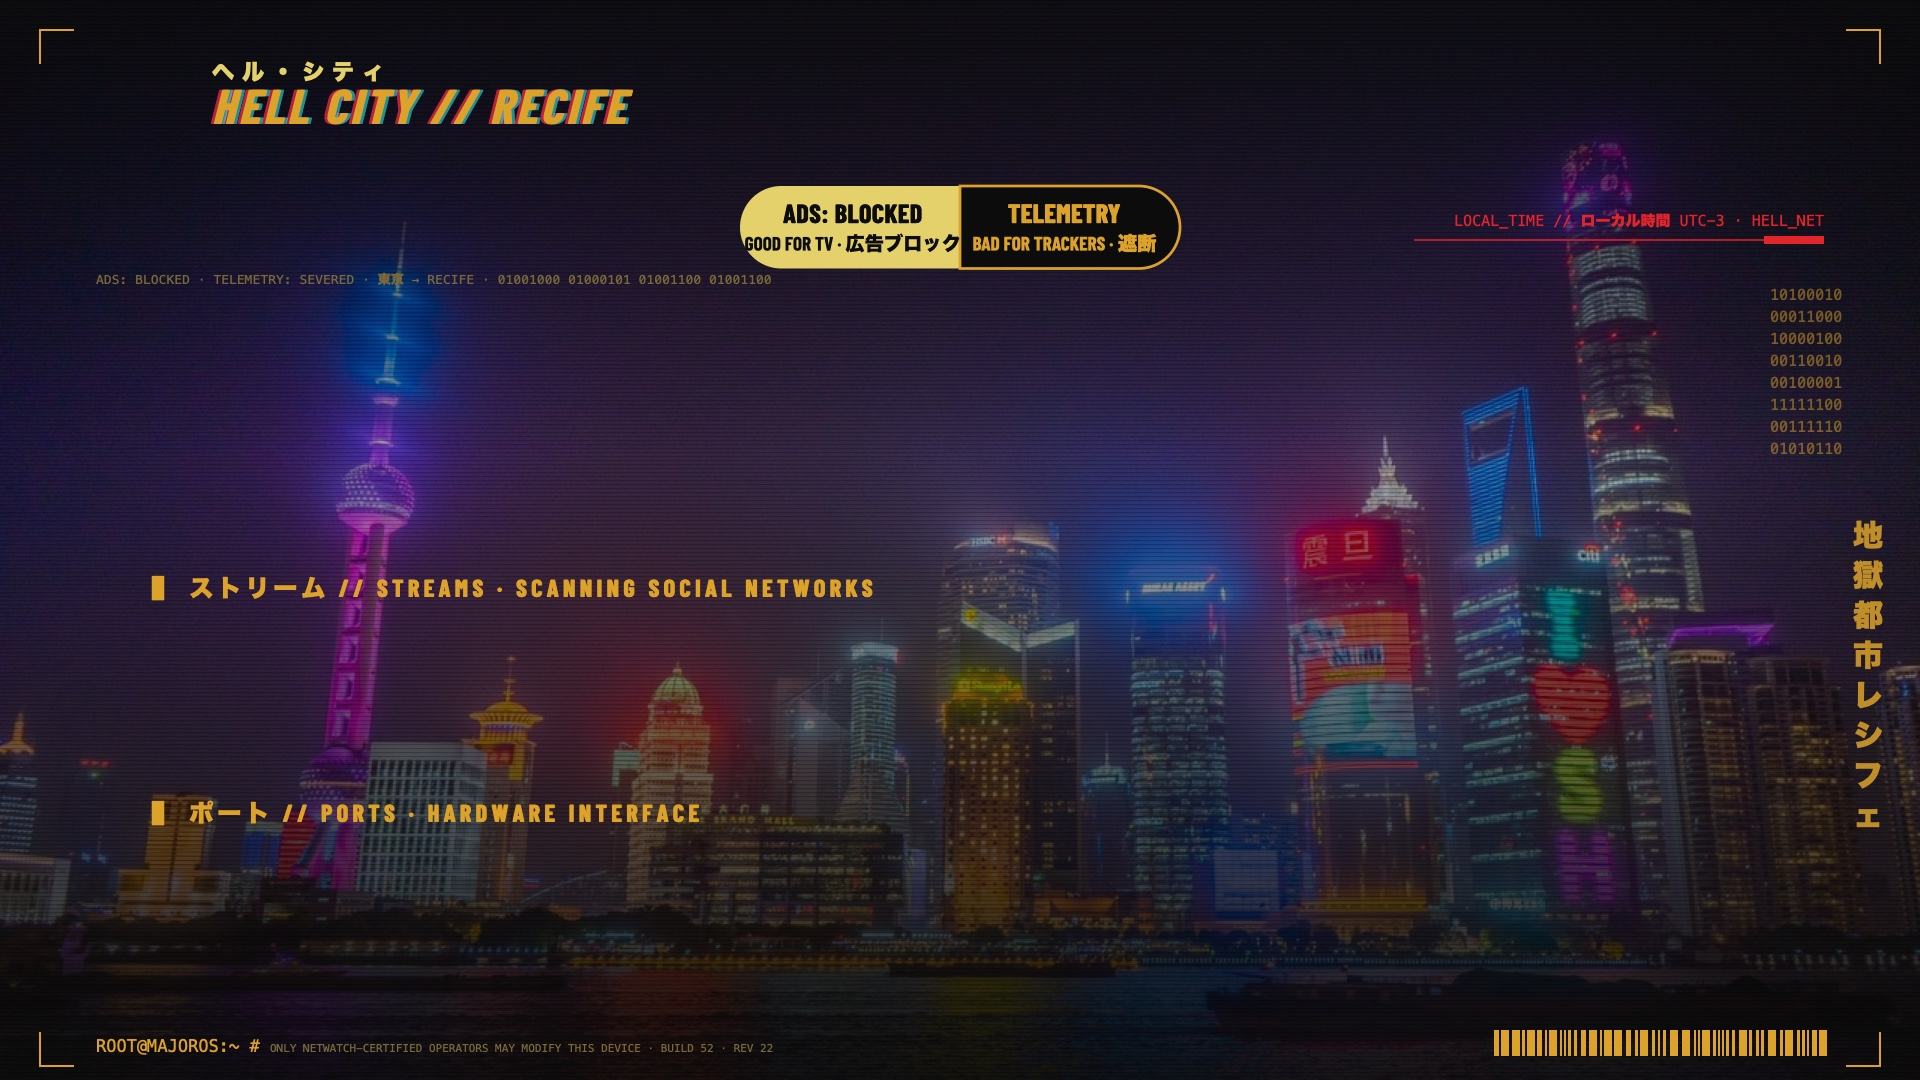
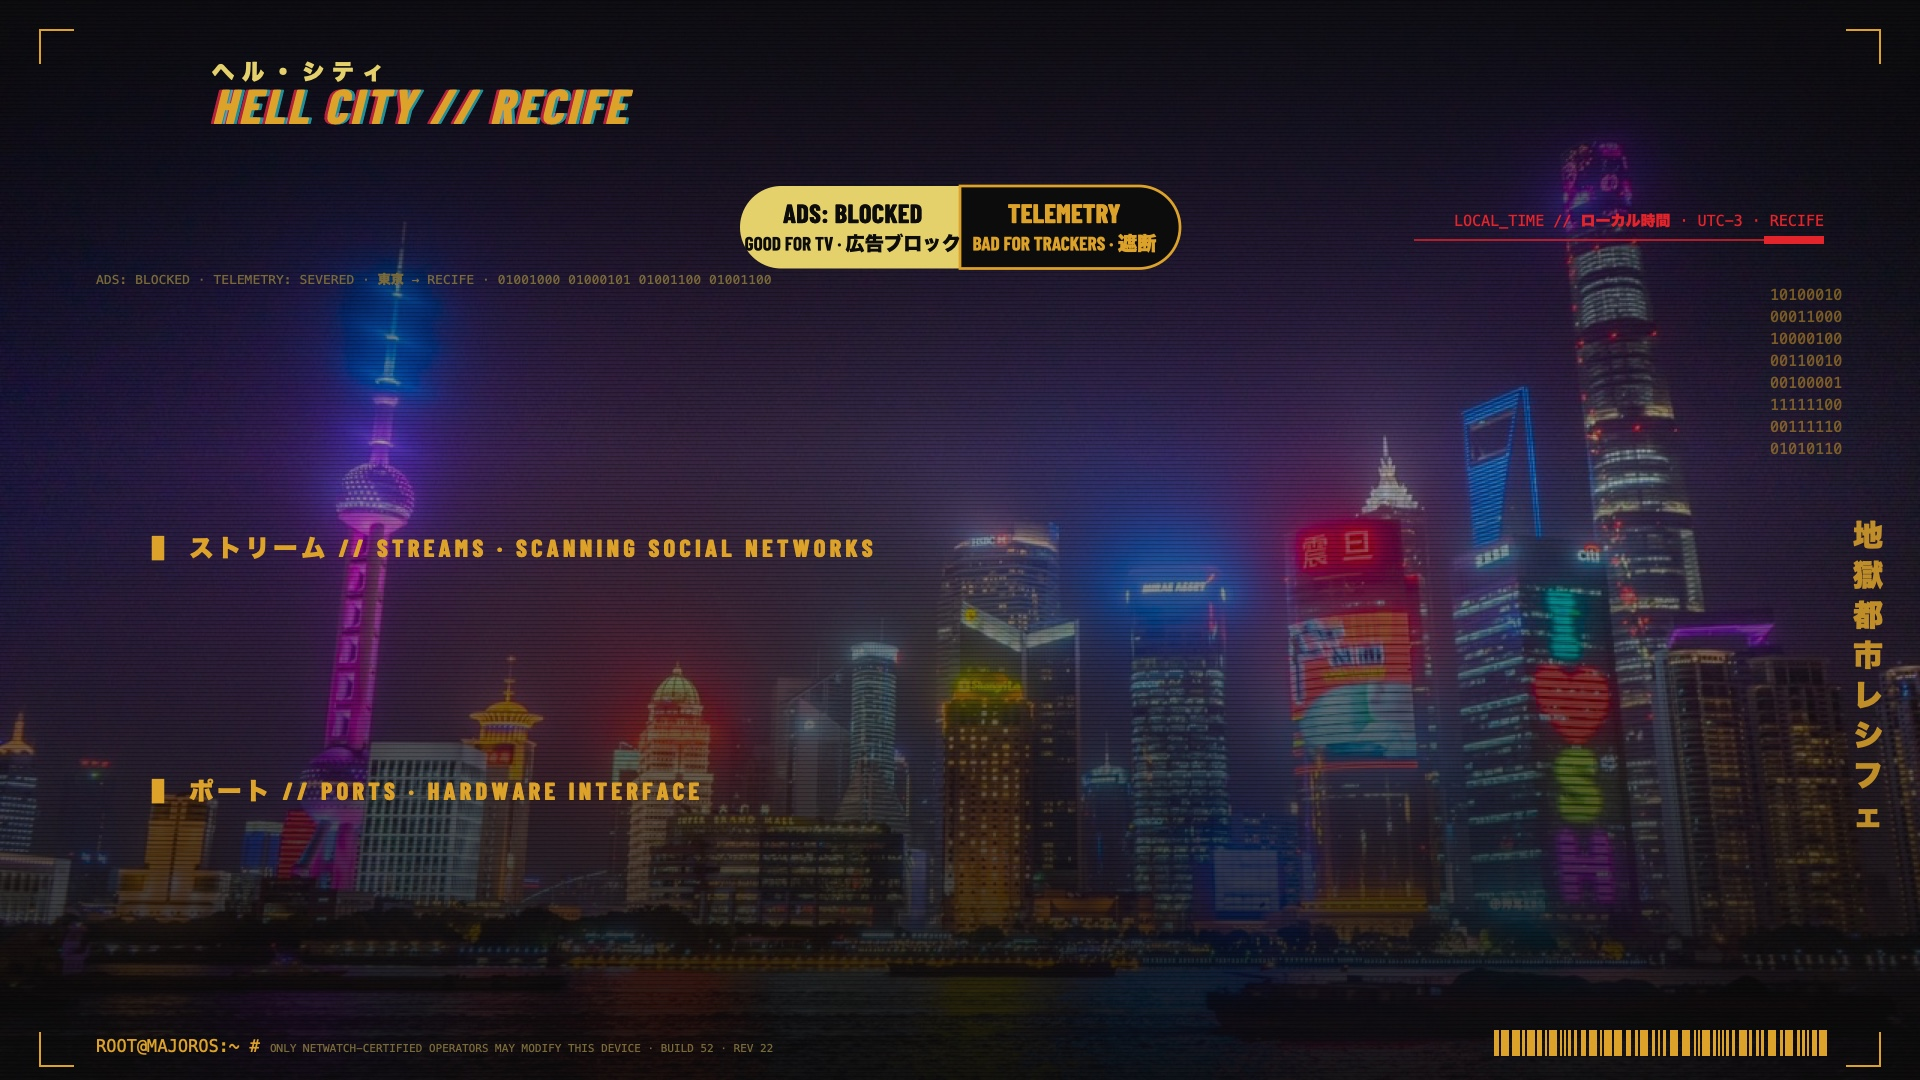
Launcher: the Inputs menu opened from a tile rises above it; theme: UTC-3 · RECIFE

Changed region(s): [[0.0625, 0.4889, 0.4688, 0.55], [0.0625, 0.7028, 0.375, 0.7639], [0.875, 0.1833, 0.9375, 0.2139]]

diff --git a/launcher/app/src/main/java/com/gathin/tvhome/MainActivity.java b/launcher/app/src/main/java/com/gathin/tvhome/MainActivity.java
@@ -3208,7 +3208,15 @@ public class MainActivity extends Activity implements AppAdapter.TileListener {
         popup.setWidth(Math.max(width, Math.min(panel.getMeasuredWidth(), (int) (360 * density))));
 
         int alignment = getResources().getBoolean(R.bool.rtl_menu_bar) != underGear ? Gravity.END : Gravity.START;
-        dropIn(popup, panel, anchor, alignment);
+        if (inputsAnchor != null) {
+            // Opened from a tile low on the screen: the list rises above the tile instead of running off the bottom.
+            int[] at = new int[2];
+            anchor.getLocationInWindow(at);
+            popup.showAtLocation(root, Gravity.NO_GRAVITY, at[0],
+                    Math.max(0, at[1] - panel.getMeasuredHeight() - (int) (10 * density)));
+        } else {
+            dropIn(popup, panel, anchor, alignment);
+        }
         for (int i = 0; i < rows.getChildCount(); i++) {
             View child = rows.getChildAt(i);
             if (child.getVisibility() == View.VISIBLE && child.isFocusable()) { child.requestFocus(); break; }
